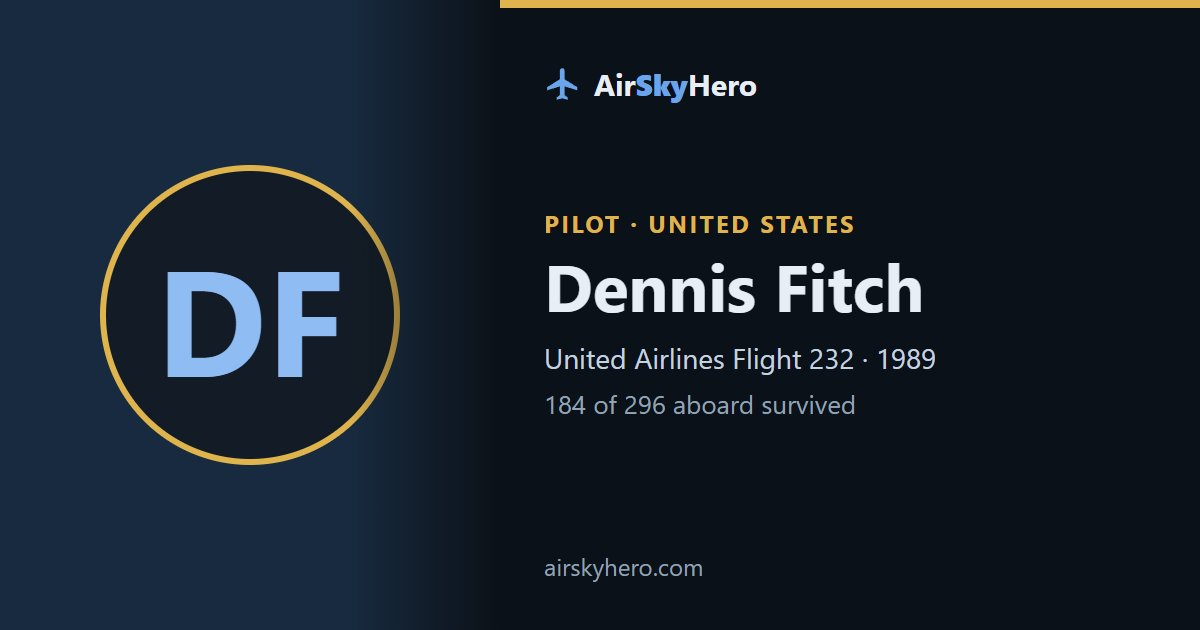
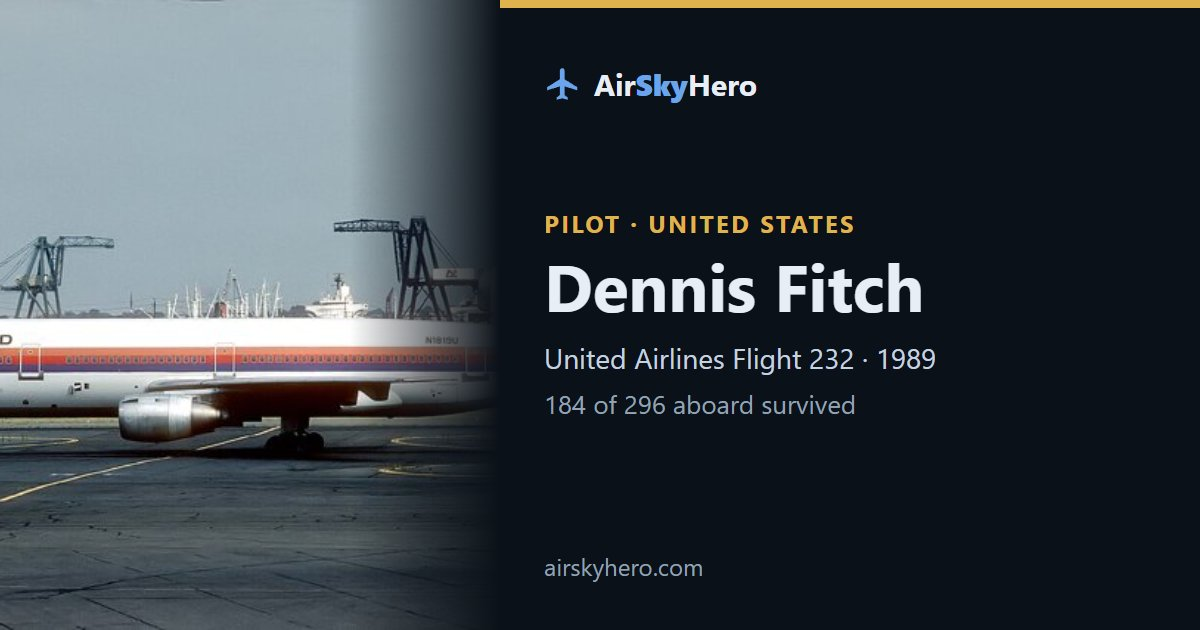
Fix portrait cropping on hero cards and add a photo for Dennis Fitch
Card photos now fill their frame, so the face position applies and tall
portraits no longer show only the top of the head. Dennis Fitch gets a
photo of N1819U, the Flight 232 aircraft (Paul Seymour, CC BY-SA 4.0).

diff --git a/site.css b/site.css
@@ -98,8 +98,8 @@ a.n-card:hover, a.n-card:focus-visible { border-color: var(--accent); transform:
 .card { text-align: left; color: var(--text); text-decoration: none; background: var(--surface); border: 1px solid var(--line); border-radius: 12px; padding: 16px; display: flex; flex-direction: column; gap: 6px; cursor: pointer; transition: border-color .15s, transform .15s; }
 .card:hover, .card:focus-visible { border-color: var(--accent); transform: translateY(-2px); outline: none; }
 .card h4 { margin: 0; font-size: 1.05rem; }
-.thumb { margin: -16px -16px 6px; aspect-ratio: 16 / 9; border-radius: 11px 11px 0 0; overflow: hidden; background: var(--accent-soft); display: grid; place-items: center; }
-.thumb img { width: 100%; height: 100%; object-fit: cover; display: block; }
+.thumb { position: relative; margin: -16px -16px 6px; aspect-ratio: 16 / 9; border-radius: 11px 11px 0 0; overflow: hidden; background: var(--accent-soft); display: grid; place-items: center; }
+.thumb img { position: absolute; inset: 0; width: 100%; height: 100%; object-fit: cover; display: block; }
 .thumb img.face { object-position: 50% 30%; }
 .thumb .initials { font-size: 2rem; font-weight: 700; color: var(--accent-strong); opacity: .7; }
 .tags { display: flex; flex-wrap: wrap; gap: 6px; }

diff --git a/heroes.js b/heroes.js
@@ -68,7 +68,9 @@ const HEROES = [
     date: "19 July 1989", flight: "United Airlines Flight 232", aircraft: "McDonnell Douglas DC-10", place: "Sioux City, Iowa",
     aboard: 296, survived: 184,
     story: "A United training check airman travelling as a passenger, he went to the cockpit and worked the throttles to help steer the crippled DC-10 to Sioux City.",
-    source: "https://en.wikipedia.org/wiki/United_Airlines_Flight_232" },
+    source: "https://en.wikipedia.org/wiki/United_Airlines_Flight_232",
+    image: "images/fitch.jpg", imageKind: "scene", imageAlt: "N1819U, the United Airlines DC-10 later lost as Flight 232, at Newark in 1980",
+    imageCredit: "Paul Seymour · CC BY-SA 4.0", imageCreditUrl: "https://commons.wikimedia.org/wiki/File:N1819U_McDonnell_Douglas_DC-10-10_United_Airlines,_Newark_International_Airport_1980.jpg" },
   { id: "williams", name: "Arland D. Williams Jr.", role: "Passenger", country: "United States", year: 1982,
     date: "13 January 1982", flight: "Air Florida Flight 90", aircraft: "Boeing 737-200", place: "Potomac River, Washington, D.C.",
     aboard: 79, survived: 5,

diff --git a/dennis-fitch/index.html b/dennis-fitch/index.html
@@ -48,6 +48,10 @@
       <h1>Dennis Fitch</h1>
       <div class="tags"><span class="tag">United Airlines Flight 232</span><span class="tag">1989</span></div>
     </div>
+    <figure class="hp-photo">
+      <img src="/images/fitch.jpg" alt="N1819U, the United Airlines DC-10 later lost as Flight 232, at Newark in 1980">
+      <figcaption>Photo: <a href="https://commons.wikimedia.org/wiki/File:N1819U_McDonnell_Douglas_DC-10-10_United_Airlines,_Newark_International_Airport_1980.jpg" target="_blank" rel="noopener">Paul Seymour · CC BY-SA 4.0</a></figcaption>
+    </figure>
     <dl class="facts">
       <div class="fact"><dt>Flight</dt><dd>United Airlines Flight 232</dd></div>
       <div class="fact"><dt>Date</dt><dd>19 July 1989</dd></div>

diff --git a/arland-d-williams-jr/index.html b/arland-d-williams-jr/index.html
@@ -92,7 +92,7 @@
           <span class="more">Read story →</span>
         </a>
         <a class="card" href="/dennis-fitch/">
-          <div class="thumb"><span class="initials" aria-hidden="true">DF</span></div>
+          <div class="thumb"><img src="/images/fitch.jpg" alt="N1819U, the United Airlines DC-10 later lost as Flight 232, at Newark in 1980" class="" loading="lazy" width="640" height="360"></div>
           <h4>Dennis Fitch</h4>
           <div class="tags"><span class="tag">Pilot</span><span class="tag">1989</span></div>
           <p class="flight">United Airlines Flight 232</p>

diff --git a/al-haynes/index.html b/al-haynes/index.html
@@ -85,7 +85,7 @@
     <h2 id="more-h">More heroes</h2>
     <div class="grid">
         <a class="card" href="/dennis-fitch/">
-          <div class="thumb"><span class="initials" aria-hidden="true">DF</span></div>
+          <div class="thumb"><img src="/images/fitch.jpg" alt="N1819U, the United Airlines DC-10 later lost as Flight 232, at Newark in 1980" class="" loading="lazy" width="640" height="360"></div>
           <h4>Dennis Fitch</h4>
           <div class="tags"><span class="tag">Pilot</span><span class="tag">1989</span></div>
           <p class="flight">United Airlines Flight 232</p>
